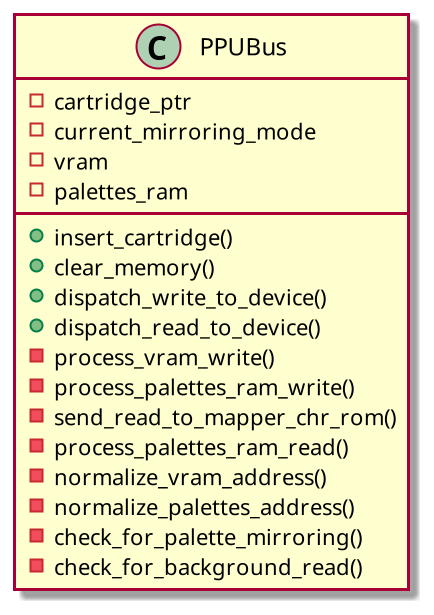
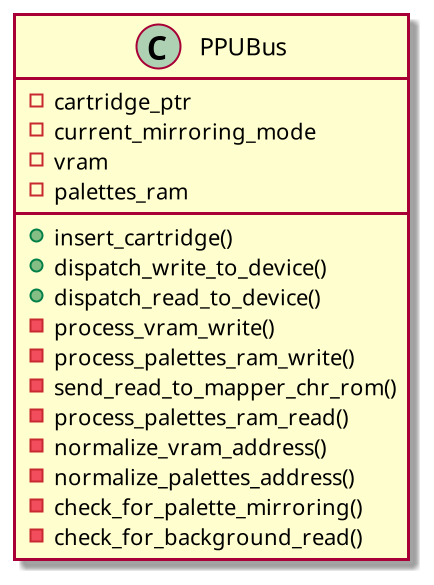
Comment sections in implementation files

Changed region(s): [[0.03, 0.0, 0.9585, 0.9846], [0.4493, 0.0615, 0.659, 0.0923]]

diff --git a/src/ppu/ppu_bus.cpp b/src/ppu/ppu_bus.cpp
@@ -17,6 +17,10 @@ namespace
 }
 
 
+/////////
+// API //
+/////////
+
 void PPUBus::insert_cartridge(std::shared_ptr<Cartridge> cartridge)
 {
     cartridge_ptr = cartridge;
@@ -43,6 +47,11 @@ uint8_t PPUBus::dispatch_read_to_device(uint16_t address) const
         return process_palettes_ram_read(address);
 }
 
+
+///////////////////
+// Write methods //
+///////////////////
+
 void PPUBus::process_vram_write(uint16_t address, uint8_t data)
 {
     const auto normalized_address {normalize_vram_address(address)};
@@ -56,6 +65,11 @@ void PPUBus::process_palettes_ram_write(uint16_t address, uint8_t data)
 
     palettes_ram.at(normalized_address) = data;
 }
+
+
+//////////////////
+// Read methods //
+//////////////////
 
 uint8_t PPUBus::send_read_to_mapper_chr_rom(uint16_t address) const
 {
@@ -76,6 +90,10 @@ uint8_t PPUBus::process_palettes_ram_read(uint16_t address) const
     return palettes_ram.at(normalized_address);
 }
 
+
+///////////////////////
+// Address preparing //
+///////////////////////
 
 uint16_t PPUBus::normalize_vram_address(uint16_t address) const
 {

diff --git a/src/cpu/cpu_bus.cpp b/src/cpu/cpu_bus.cpp
@@ -15,6 +15,10 @@ namespace
 }
 
 
+/////////
+// API //
+/////////
+
 CPUBus::CPUBus(PPU& ppu) : ppu_ref{ppu} {};
 
 void CPUBus::insert_cartridge(std::shared_ptr<Cartridge> cartridge)
@@ -62,6 +66,10 @@ void CPUBus::clear_ppu_nmi_flag() const
 }
 
 
+///////////////////
+// Write methods //
+///////////////////
+
 void CPUBus::send_write_to_ppu(uint16_t address, uint8_t data) const
 {
     ppu_ref.handle_register_write_from_cpu(address, data);
@@ -79,6 +87,11 @@ void CPUBus::cpu_ram_write(uint16_t address, uint8_t data)
     else
         cpu_ram.at(address) = data;
 }
+
+
+//////////////////
+// Read methods //
+//////////////////
 
 uint8_t CPUBus::send_read_to_ppu(uint16_t address) const
 {

diff --git a/src/cpu/cpu.cpp b/src/cpu/cpu.cpp
@@ -351,9 +351,9 @@ void CPU::perform_branching()
 }
 
 
-////////////////////////
-//  Addressing modes  //
-////////////////////////
+//////////////////////
+// Addressing modes //
+//////////////////////
 
 void CPU::addressing_mode_immediate()
 {
@@ -479,9 +479,9 @@ void CPU::addressing_mode_indirect_y()
 }
 
 
-////////////////////
-//  Instructions  //
-////////////////////
+//////////////////
+// Instructions //
+//////////////////
 
 void CPU::ADC()
 {

diff --git a/src/system/system.cpp b/src/system/system.cpp
@@ -11,6 +11,10 @@ namespace
 }
 
 
+/////////
+// API //
+/////////
+
 System::System() : cpu{ppu}
 {
     cartridge = std::make_shared<Cartridge>();
@@ -55,6 +59,11 @@ void System::run_console()
         }
     }
 }
+
+
+//////////////////////////
+// System functionality //
+//////////////////////////
 
 void System::prepare_system_for_start()
 {

diff --git a/include/ppu/ppu_bus.h b/include/ppu/ppu_bus.h
@@ -17,7 +17,6 @@ namespace PPUBusConsts
 class PPUBus {
 public:
     void insert_cartridge(std::shared_ptr<Cartridge> cartridge);
-    void clear_memory();
 
     void    dispatch_write_to_device(uint16_t address, uint8_t data);
     uint8_t dispatch_read_to_device(uint16_t address) const;

diff --git a/src/cartridge/cartridge.cpp b/src/cartridge/cartridge.cpp
@@ -122,9 +122,9 @@ bool Cartridge::decode_header()
 }
 
 
-//////////////////////
-// Helper functions //
-//////////////////////
+////////////////////
+// Helper methods //
+////////////////////
 
 bool Cartridge::check_for_nes_logo_in_header() const
 {
